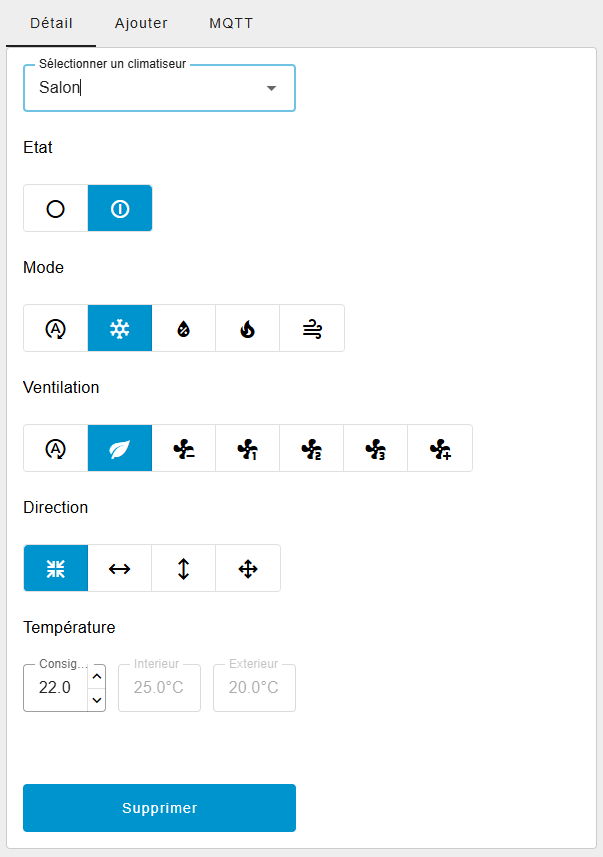
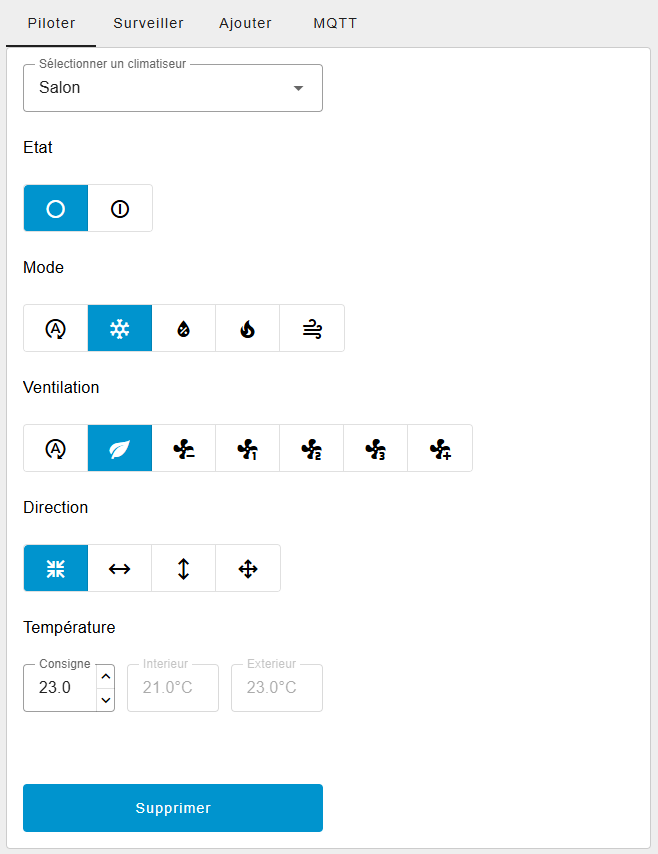
Update screenshot

diff --git a/README.md b/README.md
@@ -6,9 +6,11 @@
 
 ## A propos
 
-**dknr-daikin** est un projet consacré à la récupération et à l'exploitation des données des PAC Daikin en local.
+**dknr-daikin** est un projet consacré au pilotage, à la récupération et à l'exploitation des données des PAC Daikin en local.
 
 [![Dashboard Screenshot](https://github.com/JcDenis/dknr-daikin/blob/master/dknr-daikin_screenshot.png)](https://github.com/JcDenis/dknr-daikin/blob/master/dknr-daikin_screenshot.png)
+
+[![Dashboard Screenshot 2](https://github.com/JcDenis/dknr-daikin/blob/master/dknr-daikin_screenshot2.png)](https://github.com/JcDenis/dknr-daikin/blob/master/dknr-daikin_screenshot2.png)
 
 
 ## Fonctionnalités
